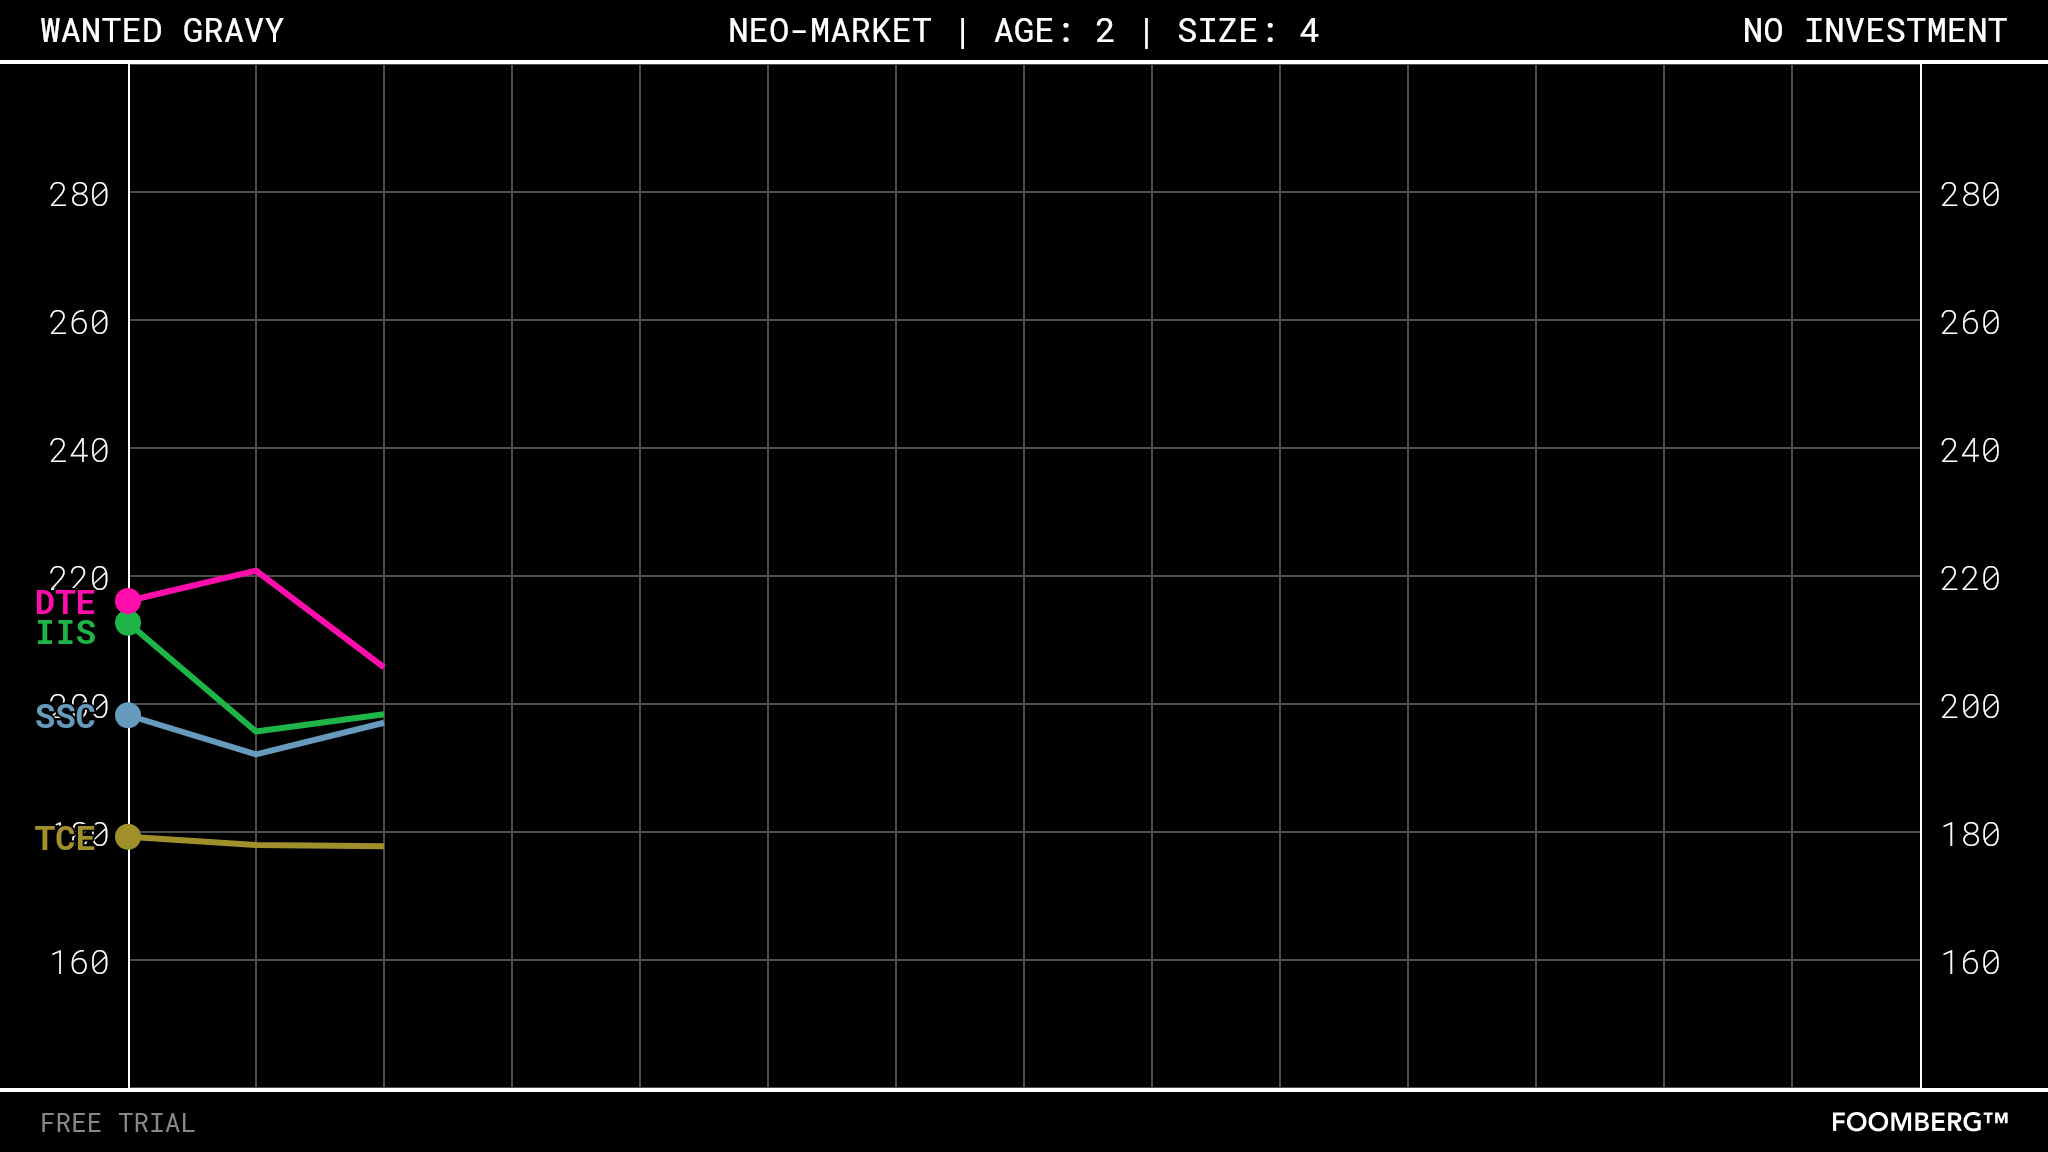
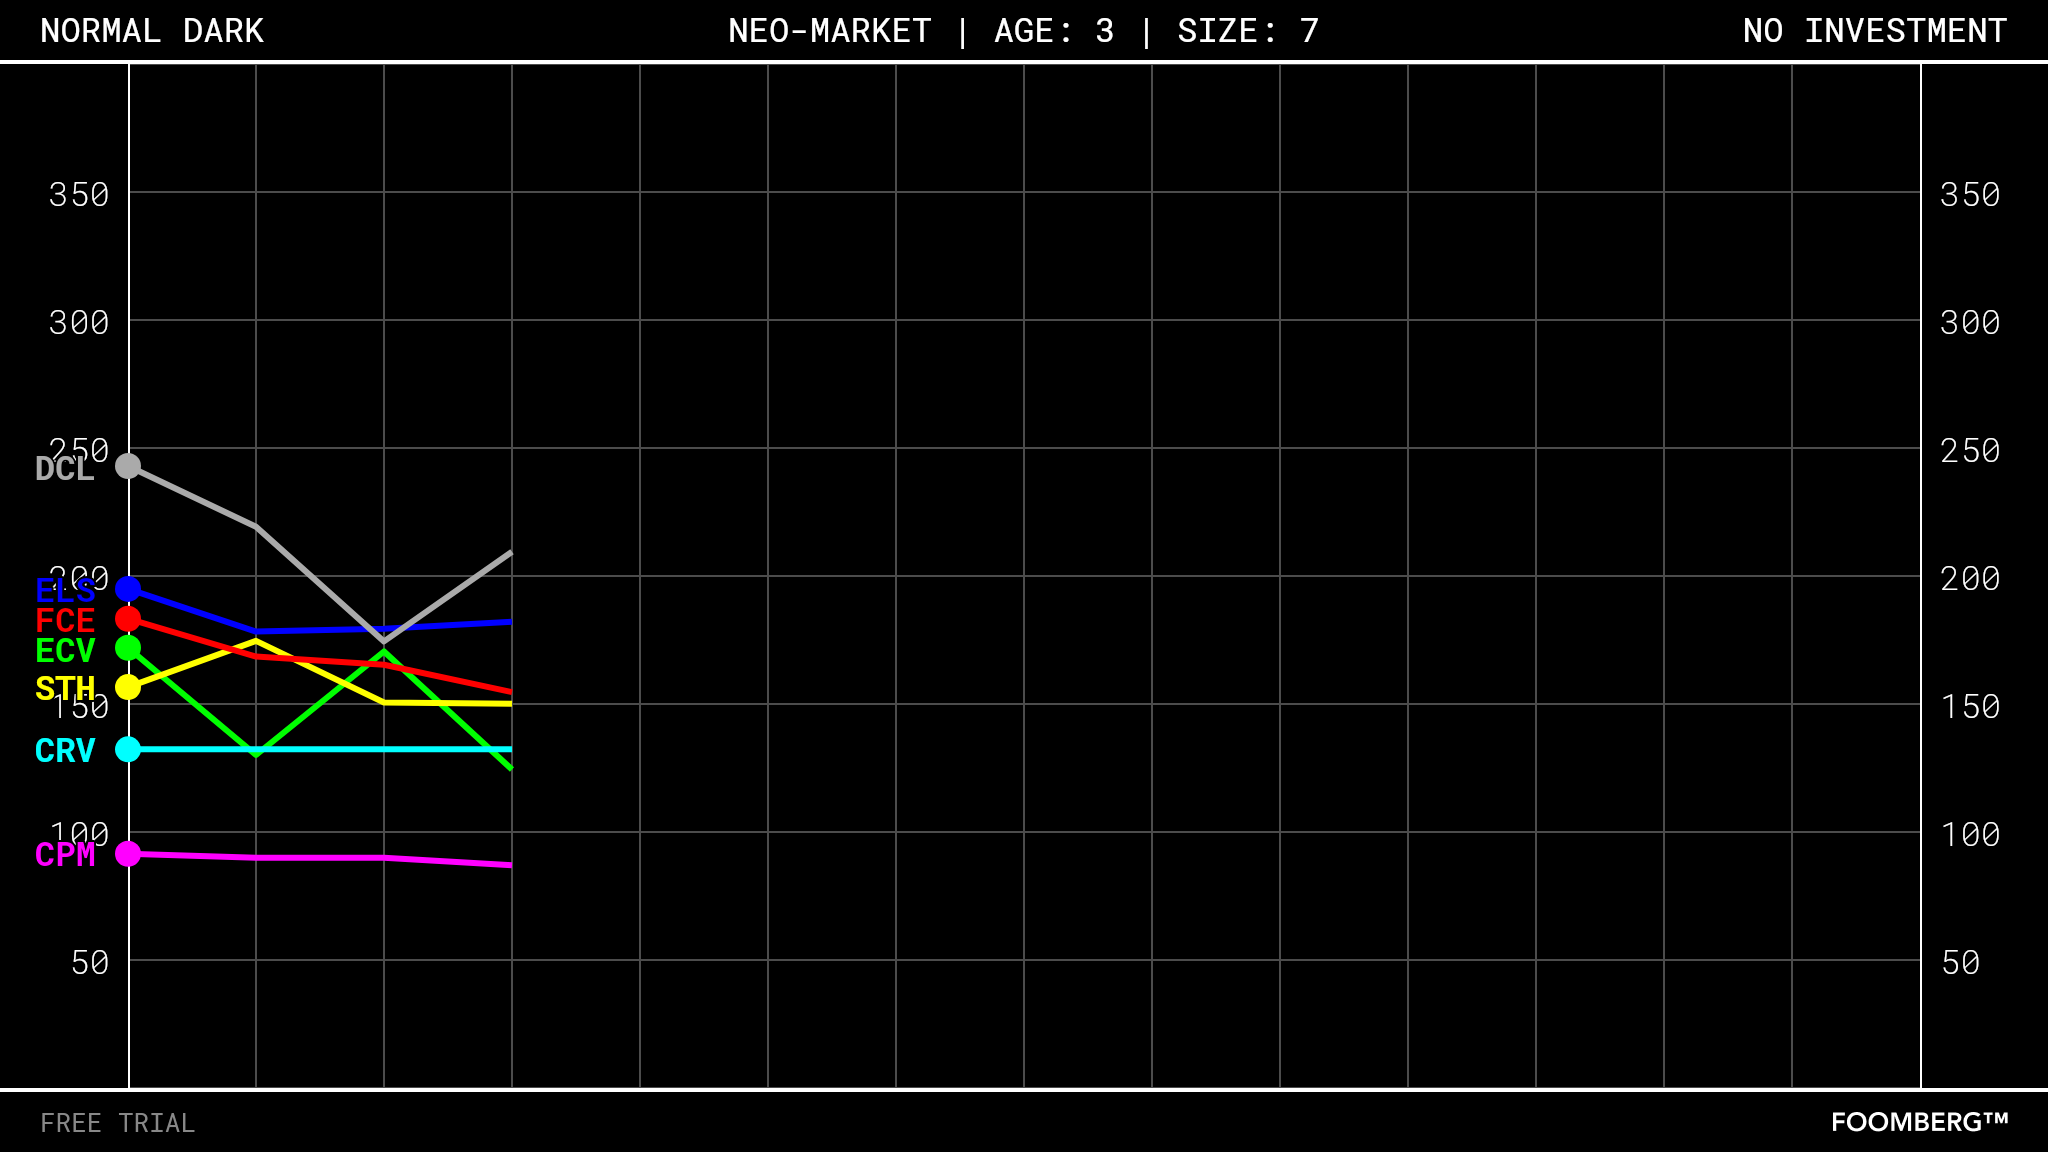
add waiting gif when observing/holding, update example graphs

diff --git a/client-http/app.js b/client-http/app.js
@@ -136,7 +136,7 @@ function draw (v) {
   if (v.view === 'art') el = imageBox(v.url, v.art)
   else if (v.view === 'chart') el = imageBox(v.png, v.title || 'chart', { chart: true, full: v.png })
   else if (v.view === 'text') el = messageBox(v)
-  else if (v.view === 'said') { el = document.createElement('div'); el.appendChild(sayBox(v.text)) }
+  else if (v.view === 'said') { el = turnRow(); el.appendChild(sayBox(v.text)) }
   else { el = document.createElement('div'); el.className = 'msg game'; el.textContent = `[${v.kind}]` }
   log.appendChild(el)
   return el
@@ -237,6 +237,19 @@ function renderChoices (list) {
   pending = row
 }
 
+/**
+ * The row a turn is echoed on.
+ *
+ * Right-aligned like everything of the player's, and a flex row for one
+ * reason: the spinner stands at the end of it while the server is still
+ * answering. See showWaiting.
+ */
+function turnRow () {
+  const row = document.createElement('div')
+  row.className = 'turn'
+  return row
+}
+
 /** What the player chose, as the box it is drawn in. */
 function sayBox (line) {
   const said = document.createElement('div')
@@ -250,12 +263,12 @@ function echo (line) {
   const said = sayBox(line)
   if (pending) {
     // the button that was taken, resolving into the answer it gave
-    pending.className = ''
+    pending.className = 'turn'
     pending.replaceChildren(said)
     pending = null
     return
   }
-  const row = document.createElement('div')
+  const row = turnRow()
   row.appendChild(said)
   log.appendChild(row)
 }
@@ -279,6 +292,46 @@ async function post (path, body = {}) {
   const data = await res.json().catch(() => ({}))
   if (!res.ok) throw new Error(data.error || `${res.status}`)
   return data
+}
+
+// ---------------------------------------------------------------------------
+// Waiting on the server
+//
+// Most turns are answered out of the rules and are back before the click has
+// finished. A few of them move the world, which means QDrive and the Moth API,
+// and those take seconds - seconds in which nothing on the page moves at all,
+// which reads as a page that has broken rather than as a game that is thinking.
+//
+// So a request slow to come back says so, beside the line the player just said.
+// The grace period is the point of the thing: a turn that lands at once must
+// not flash a spinner at anybody on the way past. Only `resync` goes without -
+// nobody asked for it, so nobody is told that it is happening.
+// ---------------------------------------------------------------------------
+
+/** How long a request may take before it is worth mentioning. */
+const GRACE = 250
+
+/** The spinner, where the waiting belongs. Returns how to take it away again. */
+function showWaiting () {
+  // beside what the player just said, when they said something; otherwise -
+  // the first load, signing in - on a row of its own at the foot of the log
+  const last = log.lastElementChild
+  const alone = !last || !last.classList.contains('turn')
+  const row = alone ? log.appendChild(turnRow()) : last
+  const spin = document.createElement('img')
+  spin.className = 'waiting'
+  spin.src = 'waiting.gif'
+  spin.alt = 'waiting'
+  row.appendChild(spin)
+  scroll()
+  return () => { spin.remove(); if (alone) row.remove() }
+}
+
+/** A request, with the waiting shown if it is slow to come back. */
+async function ask (path, body) {
+  let hide = null
+  const timer = setTimeout(() => { hide = showWaiting() }, GRACE)
+  try { return await post(path, body) } finally { clearTimeout(timer); if (hide) hide() }
 }
 
 /**
@@ -339,7 +392,7 @@ function showAccount (r) {
     out.onclick = async () => {
       if (busy) return
       setBusy(true)
-      try { await show(await post('/api/auth/logout')) } finally { setBusy(false) }
+      try { await show(await ask('/api/auth/logout')) } finally { setBusy(false) }
     }
     accountEl.appendChild(out)
     //accountEl.appendChild($msg)
@@ -378,7 +431,7 @@ function showChoice (choose) {
     b.onclick = async () => {
       if (busy) return
       setBusy(true)
-      try { await show(await post('/api/auth/claim', { keep })) } catch (e) {
+      try { await show(await ask('/api/auth/claim', { keep })) } catch (e) {
         trouble(`Could not finish signing in: ${e.message}`)
       } finally { setBusy(false); scroll() }
     }
@@ -393,7 +446,7 @@ window.onTelegramAuth = async (user) => {
   if (busy) return
   setBusy(true)
   try {
-    const r = await post('/api/auth/telegram', { user })
+    const r = await ask('/api/auth/telegram', { user })
     if (r.choose) return showChoice(r.choose)
     await show(r)
   } catch (e) {
@@ -455,12 +508,12 @@ async function preview (scene, vars = {}) {
   setBusy(true)
   try {
     if (!scene) {
-      const { scenes } = await post('/api/preview', {})
+      const { scenes } = await ask('/api/preview', {})
       console.log(`mw.preview(<name>) - ${scenes.length} scenes:\n  ${scenes.join('\n  ')}`)
       return scenes
     }
     log.innerHTML = ''
-    const r = await post('/api/preview', { scene, vars })
+    const r = await ask('/api/preview', { scene, vars })
     await renderBurst(r.emissions)
     renderChoices(r.choices)
     renderStatus(r.summary)
@@ -484,7 +537,7 @@ async function boot (reset = false) {
   previewing = null
   setBusy(true)
   try {
-    await show(await post(reset ? '/api/reset' : '/api/session'))
+    await show(await ask(reset ? '/api/reset' : '/api/session'))
   } catch (e) {
     trouble(`Could not reach the game: ${e.message}`)
   } finally {
@@ -528,7 +581,7 @@ async function say (token, label) {
   echo(label && label !== token ? `${label}` : labelFor(token))
   scroll()
   try {
-    const r = await post('/api/say', { text: token, preview: previewing })
+    const r = await ask('/api/say', { text: token, preview: previewing })
     // the game this browser was in is gone; what came back is a whole new one
     if (r.reopened) return await show(r)
     await renderBurst(r.emissions)

diff --git a/client-http/index.html b/client-http/index.html
@@ -4,6 +4,8 @@
 <meta charset="utf-8">
 <meta name="viewport" content="width=device-width, initial-scale=1">
 <title>Mackenzie Walk Capital</title>
+<!-- the spinner, fetched now rather than when the wait it stands for starts -->
+<link rel="preload" as="image" href="waiting.gif">
 <style>
   /* A dealing floor read down one column. The game talks down the left, the
      player and anything said about them answers down the right, and a picture
@@ -142,6 +144,27 @@
     border: 1px solid var(--ink);
     padding: 7px var(--pad-x);
     font-style: italic;
+  }
+  /* The row a turn is echoed on. It is a flex row for one reason: while the
+     server is still answering, the spinner stands at the end of it, beside
+     what the player just said. */
+  .turn{
+    display: flex;
+    align-items: center;
+    justify-content: flex-end;
+    gap: 10px;
+    position: relative;
+  }
+  /* The gif is drawn dark on white and this page is the other way round, so it
+     is inverted rather than redrawn: its white becomes the page's own black,
+     and the arc comes back light. Half of its 32, because it is a wait going
+     on and not a thing to look at. */
+  .waiting{
+    width: 16px;
+    height: 16px;
+    filter: invert(1);
+    position: absolute;
+    left: calc( 100% + 10px );
   }
 
   /* someone is still talking - see the pacing note in app.js */

diff --git a/NOTICE.md b/NOTICE.md
@@ -23,6 +23,13 @@ Regular. The OFL permits it; the reserved font name is untouched.
 private and neither is vendored here; see `model/requirements.txt` for how they
 are installed alongside.
 
+## The spinner — `client-http/waiting.gif`
+
+Not original: the file's own GIF comment records that it was made with
+ajaxload.info, a spinner generator. It is shown in the browser client while a
+turn is out at the Moth API, inverted by CSS so that it is light on the page's
+black.
+
 ## Everything else
 
 `core/`, `host/`, `client-http/`, `client-telegram/`, `test/`, `model/engine.py`

diff --git a/README.md b/README.md
@@ -61,7 +61,7 @@ mackenziewalk_04/
     board.mjs        the leaderboard: one file, shared by everybody
     mirror.mjs       a browser turn said again in the chat, when both are on
     art/ fonts/      pictures the scenes name; the chart's typefaces
-  client-http/     a web page. server.mjs, index.html, app.js
+  client-http/     a web page. server.mjs, index.html, app.js, waiting.gif
   client-telegram/ a Telegram bot. bot.mjs, sticker.mjs
   test/            selftest, copy-check, dryrun, doctor
 ```
